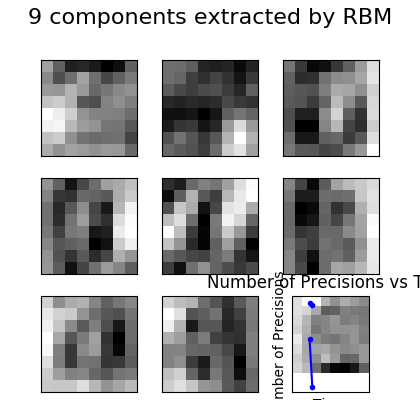
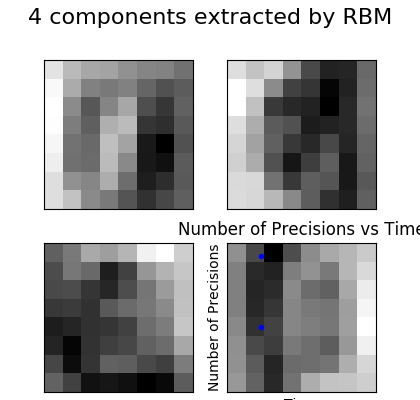
ex3b

diff --git a/MLex03.py b/MLex03.py
@@ -13,7 +13,6 @@ from sklearn.neural_network import BernoulliRBM
 from sklearn.pipeline import Pipeline
 from sklearn.metrics import precision_score
 import time
-import pandas
 import pickle
 # #############################################################################
 # Setting up
@@ -73,51 +72,56 @@ precisions_raw = []
 
 def training(n, classify):
     filename = path.join("trained/", "{0}_components.sav".format(n**2))
-    if not path.exists(filename):
-        # Training
+    # Training
+    # Hyper-parameters. These were set by cross-validation,
+    # using a GridSearchCV. Here we are not performing cross-validation to
+    # save time.
+    rbm.learning_rate = 0.06
+    rbm.n_iter = 20
+    # More components tend to give better prediction performance, but larger
+    # fitting time
+    rbm.n_components = n ** 2
+    logistic.C = 6000.0
+    # Training RBM-Logistic Pipeline
+    first = time.clock()
+    classify.fit(X_train, Y_train)
+    time_each_training.append(abs(time.clock() - first))
+    # Save features
+    pickle.dump(classify, open(filename, 'wb'))
+    # Training Logistic regression
+    logistic_classifier = linear_model.LogisticRegression(C=100.0)
+    logistic_classifier.fit(X_train, Y_train)
+    precisions_RBM.append(precision_score(Y_test, classify.predict(X_test), average='macro'))
+    #  ----------------------------- Plotting -------------------------------
+    plt.figure(figsize=(4.2, 4))
+    for i, comp in enumerate(rbm.components_):
+        plt.subplot(n, n, i + 1)
+        plt.imshow(comp.reshape((8, 8)), cmap=plt.cm.gray_r,
+                   interpolation='nearest')
+        plt.xticks(())
+        plt.yticks(())
+    plt.suptitle(str(n**2) + ' components extracted by RBM', fontsize=16)
+    plt.subplots_adjust(0.08, 0.02, 0.92, 0.85, 0.08, 0.23)
+    plt.savefig(path.join("plots/", "{0}_components.png".format(n**2)))
 
-        # Hyper-parameters. These were set by cross-validation,
-        # using a GridSearchCV. Here we are not performing cross-validation to
-        # save time.
-        rbm.learning_rate = 0.06
-        rbm.n_iter = 20
-        # More components tend to give better prediction performance, but larger
-        # fitting time
-        rbm.n_components = n ** 2
-        logistic.C = 6000.0
-
-        # Training RBM-Logistic Pipeline
-        first = time.clock()
-        classify.fit(X_train, Y_train)
-        time_each_training.append(abs(time.clock() - first))
-
-        # Save features
-        pickle.dump(classify, open(filename, 'wb'))
-
-        # Training Logistic regression
-        logistic_classifier = linear_model.LogisticRegression(C=100.0)
-        logistic_classifier.fit(X_train, Y_train)
-
-        precisions_RBM.append(precision_score(Y_test, classify.predict(X_test), average='macro'))
-
-        #  ----------------------------- Plotting -------------------------------
-        plt.figure(figsize=(4.2, 4))
-        for i, comp in enumerate(rbm.components_):
-            plt.subplot(n, n, i + 1)
-            plt.imshow(comp.reshape((8, 8)), cmap=plt.cm.gray_r,
-                       interpolation='nearest')
-            plt.xticks(())
-            plt.yticks(())
-        plt.suptitle(str(n**2) + ' components extracted by RBM', fontsize=16)
-        plt.subplots_adjust(0.08, 0.02, 0.92, 0.85, 0.08, 0.23)
-        plt.savefig(path.join("plots/", "{0}_components.png".format(n**2)))
-
-    else:
-        # Load features
-        classify = pickle.load(open(filename, 'rb'))
+    # Training Logistic regression
+    logistic_classifier = linear_model.LogisticRegression(C=100.0)
+    logistic_classifier.fit(X_train, Y_train)
+    precisions_RBM.append(precision_score(Y_test, classify.predict(X_test), average='macro'))
+    #  ----------------------------- Plotting -------------------------------
+    plt.figure(figsize=(4.2, 4))
+    for i, comp in enumerate(rbm.components_):
+        plt.subplot(n, n, i + 1)
+        plt.imshow(comp.reshape((8, 8)), cmap=plt.cm.gray_r,
+                   interpolation='nearest')
+        plt.xticks(())
+        plt.yticks(())
+    plt.suptitle(str(n**2) + ' components extracted by RBM', fontsize=16)
+    plt.subplots_adjust(0.08, 0.02, 0.92, 0.85, 0.08, 0.23)
+    plt.savefig(path.join("plots/", "{0}_components.png".format(n**2)))
 
 
-ran = range(2, 4)
+ran = range(2, 21)
 for i in ran:
     training(i, classifier)
 plt.plot(time_each_training, precisions_RBM, 'b.-')
@@ -133,3 +137,4 @@ plt.xlabel("Time")
 plt.ylabel("Number of Precisions")
 plt.savefig(path.join("plots/", "Number of Precisions vs Time"))
 
+# ===========================================================================

diff --git a/ex3b.py b/ex3b.py
@@ -1,0 +1,131 @@
+__author__ = 'davidwer'
+
+from time import time
+import logging
+import matplotlib.pyplot as plt
+
+from sklearn.model_selection import train_test_split
+from sklearn.model_selection import GridSearchCV
+from sklearn.datasets import fetch_lfw_people
+from sklearn.metrics import classification_report
+from sklearn.metrics import confusion_matrix
+from sklearn.decomposition import PCA
+from sklearn.svm import SVC
+
+
+# Display progress logs on stdout
+logging.basicConfig(level=logging.INFO, format='%(asctime)s %(message)s')
+
+
+# #############################################################################
+# Download the data, if not already on disk and load it as numpy arrays
+
+lfw_people = fetch_lfw_people(min_faces_per_person=70, resize=0.4)
+
+# introspect the images arrays to find the shapes (for plotting)
+n_samples, h, w = lfw_people.images.shape
+
+# for machine learning we use the 2 data directly (as relative pixel
+# positions info is ignored by this model)
+X = lfw_people.data
+n_features = X.shape[1]
+
+# the label to predict is the id of the person
+y = lfw_people.target
+target_names = lfw_people.target_names
+n_classes = target_names.shape[0]
+
+print("Total dataset size:")
+print("n_samples: %d" % n_samples)
+print("n_features: %d" % n_features)
+print("n_classes: %d" % n_classes)
+
+
+# #############################################################################
+# Split into a training set and a test set using a stratified k fold
+
+# split into a training and testing set
+X_train, X_test, y_train, y_test = train_test_split(
+    X, y, test_size=0.25, random_state=42)
+
+
+# #############################################################################
+# Compute a PCA (eigenfaces) on the face dataset (treated as unlabeled
+# dataset): unsupervised feature extraction / dimensionality reduction
+n_components = 150
+
+print("Extracting the top %d eigenfaces from %d faces"
+      % (n_components, X_train.shape[0]))
+t0 = time()
+pca = PCA(n_components=n_components, svd_solver='randomized',
+          whiten=True).fit(X_train)
+print("done in %0.3fs" % (time() - t0))
+
+eigenfaces = pca.components_.reshape((n_components, h, w))
+
+print("Projecting the input data on the eigenfaces orthonormal basis")
+t0 = time()
+X_train_pca = pca.transform(X_train)
+X_test_pca = pca.transform(X_test)
+print("done in %0.3fs" % (time() - t0))
+
+
+# #############################################################################
+# Train a SVM classification model
+
+print("Fitting the classifier to the training set")
+t0 = time()
+param_grid = {'C': [1e3, 5e3, 1e4, 5e4, 1e5],
+              'gamma': [0.0001, 0.0005, 0.001, 0.005, 0.01, 0.1], }
+clf = GridSearchCV(SVC(kernel='rbf', class_weight='balanced'), param_grid)
+clf = clf.fit(X_train_pca, y_train)
+print("done in %0.3fs" % (time() - t0))
+print("Best estimator found by grid search:")
+print(clf.best_estimator_)
+
+
+# #############################################################################
+# Quantitative evaluation of the model quality on the test set
+
+print("Predicting people's names on the test set")
+t0 = time()
+y_pred = clf.predict(X_test_pca)
+print("done in %0.3fs" % (time() - t0))
+
+print(classification_report(y_test, y_pred, target_names=target_names))
+print(confusion_matrix(y_test, y_pred, labels=range(n_classes)))
+
+
+# #############################################################################
+# Qualitative evaluation of the predictions using matplotlib
+
+def plot_gallery(images, titles, h, w, n_row=3, n_col=4):
+    """Helper function to plot a gallery of portraits"""
+    plt.figure(figsize=(1.8 * n_col, 2.4 * n_row))
+    plt.subplots_adjust(bottom=0, left=.01, right=.99, top=.90, hspace=.35)
+    for i in range(n_row * n_col):
+        plt.subplot(n_row, n_col, i + 1)
+        plt.imshow(images[i].reshape((h, w)), cmap=plt.cm.gray)
+        plt.title(titles[i], size=12)
+        plt.xticks(())
+        plt.yticks(())
+
+
+# plot the result of the prediction on a portion of the test set
+
+def title(y_pred, y_test, target_names, i):
+    pred_name = target_names[y_pred[i]].rsplit(' ', 1)[-1]
+    true_name = target_names[y_test[i]].rsplit(' ', 1)[-1]
+    return 'predicted: %s\ntrue:      %s' % (pred_name, true_name)
+
+prediction_titles = [title(y_pred, y_test, target_names, i)
+                     for i in range(y_pred.shape[0])]
+
+plot_gallery(X_test, prediction_titles, h, w)
+
+# plot the gallery of the most significative eigenfaces
+
+eigenface_titles = ["eigenface %d" % i for i in range(eigenfaces.shape[0])]
+plot_gallery(eigenfaces, eigenface_titles, h, w)
+
+plt.show()
